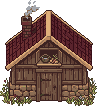
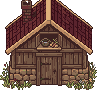
deploy dom 09/08/2026 17:00:11,98

diff --git a/public/game/farm.js b/public/game/farm.js
@@ -20,7 +20,7 @@ class FarmScene extends Phaser.Scene {
     this.pathStuck = 0; this.lastDD = null; this.noProg = 0;
     this.unlockPend = null; this.leaving = false;
     this.dragObj = null; this.dragPlot = null; this.dragPond = false;
-    this.hornoSmokeEv = null; this.dummyBroken = false;   // si no se limpian, el humo del horno no vuelve al regresar del Bosque
+    this.dummyBroken = false;
     this.auraFx = null; this.auraTw = null;
     this.clickHit = null; this.clickPond = false; this.buffer = null;
     this.corral = null; this.animales = null; this.corralCerca = null;
@@ -495,23 +495,30 @@ class FarmScene extends Phaser.Scene {
       }
     }
     // el humo nace un poco POR ENCIMA de la boca de la chimenea, no encima del ladrillo
-    const smokeFrom = (obj, dx, tint, cond) => {
-      this.time.addEvent({ delay: 850, loop: true, callback: () => {
+    // HUMO DE LAS CHIMENEAS (9/8, reescrito). Antes cada edificio tenía su corrimiento a ojo
+    // y el arte nuevo movió las chimeneas de lugar: el humo salía del techo o del aire. Ahora
+    // sale de GF.CHIMENEA, que está medido sobre el PNG, y se inclina con el viento como los árboles.
+    const smokeFrom = (obj, tint, cond, cada) => {
+      const ch = (GF.CHIMENEA && GF.CHIMENEA[obj.type]) || { dx: 0, dy: 0.01 };
+      this.time.addEvent({ delay: cada || 850, loop: true, callback: () => {
         if (!cond()) return;
         const sp = obj.sprite; if (!sp || !sp.visible) return;
-        const px = obj.cx + obj.rw * dx + (Math.random() * 6 - 3);
-        const py = obj.by - sp.displayHeight - 4;
+        const alto = sp.displayHeight || (obj.rw || obj.w);
+        const px = obj.cx + (obj.rw || obj.w) * ch.dx + (Math.random() * 5 - 2.5);
+        const py = obj.by - alto + alto * ch.dy - 2;
         const s = this.add.image(px, py, "puff" + ((Math.random() * 3) | 0))
           .setTint(tint).setAlpha(0.55)
           .setScale(0.6 + Math.random() * 0.5).setAngle(Math.random() * 360)
           .setDepth(obj.by + 1);
-        this.tweens.add({ targets: s, y: py - 26 - Math.random() * 14, x: px + (Math.random() * 16 - 7),
+        // la misma onda que mece los árboles empuja la bocanada: el humo no sube recto
+        const viento = VIENTO_ON ? Math.sin(this.time.now / 1000 * Math.PI * 2 / Math.max(0.2, VIENTO_SEG)) * 16 : 0;
+        this.tweens.add({ targets: s, y: py - 26 - Math.random() * 14, x: px + (Math.random() * 12 - 6) + viento,
           scale: s.scale * 2.2, angle: s.angle + (Math.random() * 70 - 35), alpha: 0,
           duration: 2300 + Math.random() * 700, onComplete: () => s.destroy() });
       }});
     };
     const storeObj = this.objs.find(o => o.type === "store");
-    if (storeObj) smokeFrom(storeObj, 0.26, 0xd8d2c4, () => true);                       // herrería: siempre
+    if (storeObj) smokeFrom(storeObj, 0xd8d2c4, () => true);                             // herrería: siempre
     // fragua: media por defecto, encendida mientras se trabaja en la Herrería (detalles jueves)
     this.storeObj = storeObj;
     this.updateForge();
@@ -520,10 +527,13 @@ class FarmScene extends Phaser.Scene {
     this.crearNubes();        // nubes que cruzan y proyectan sombra
     this.crearMariposas();    // mariposas que se posan sobre los cultivos listos
     this.arrancarBrilloVetas();   // chispitas sobre las vetas caras que están listas (9/8)
-    this.startHornoSmoke();   // humo del Horno de Piedra si ya está construido (viernes 2)
     const cocinaObj = this.objs.find(o => o.type === "cocina");
-    if (cocinaObj) smokeFrom(cocinaObj, 0.20, 0xefe9db, () => true);                     // cocina: humo SIEMPRE (detalles jueves)
-    if (cocinaObj) smokeFrom(cocinaObj, 0.20, 0xffffff, () => (typeof cookList === "function" ? cookList().length > 0 : !!G.cooking));   // …y el doble de bocanadas mientras se cocina
+    if (cocinaObj) smokeFrom(cocinaObj, 0xefe9db, () => true);                           // cocina: humo SIEMPRE (detalles jueves)
+    if (cocinaObj) smokeFrom(cocinaObj, 0xffffff, () => (typeof cookList === "function" ? cookList().length > 0 : !!G.cooking));   // …y el doble de bocanadas mientras se cocina
+    // HORNO DE PIEDRA: mismo humo que los demás (antes tenía el suyo propio, hecho con
+    // elipses dibujadas, mucho más flojo y difícil de ver). Solo humea si está construido.
+    const hornoObj = this.objs.find(o => o.type === "horno");
+    if (hornoObj) smokeFrom(hornoObj, 0xcfcabb, () => !!(G.built && G.built.horno), 900);
 
     // cofres depósito colocados por el jugador (los que están en la bolsa NO se colocan solos)
     (G.chests = G.chests || []).forEach((c, idx) => { if (c.col != null) this.spawnChest(idx); });
@@ -708,7 +718,6 @@ class FarmScene extends Phaser.Scene {
         payCost(b.cost); if (b.golden) G.golden -= b.golden; G.built[o.type] = true;
         if (o.sprite) { o.sprite.setAlpha(1); o.sprite.clearTint(); }
         this.tintarNodo(o);
-        if (o.type === "horno") this.startHornoSmoke();   // arranca el humo (viernes 2)
         if (typeof tutoEvent === "function") tutoEvent("build_" + o.type);
         addXp("crafting", 20); log("¡Construiste " + b.label + "!", "gold"); toast("¡" + b.label + " construida!");
         refreshHud(); if (typeof saveFarm === "function") saveFarm(true);
@@ -1726,9 +1735,9 @@ class FarmScene extends Phaser.Scene {
     // La posición se saca del alto REAL del sprite, no de un número fijo: así el arte se puede
     // cambiar (herrería nueva del 9/8) sin que el resplandor quede flotando en cualquier lado.
     const alto = o.sprite.displayHeight || (o.rw || o.w);
-    const k = alto / 111;                                 // escala respecto de la textura actual
+    const k = alto / 99;                                  // escala respecto de la textura actual
     const fx = o.cx - 0.027 * (o.rw || o.w);              // la fragua está apenas a la izquierda del centro
-    const fy = o.by - 0.267 * alto;                       // boca del horno, medida sobre el sprite
+    const fy = o.by - 0.299 * alto;                       // boca de la fragua, medida sobre el sprite
     if (lit && !this.forgeGlow) {
       // núcleo intenso en el horno + halo suave que baña el frente del edificio (blend aditivo)
       const core = this.add.ellipse(fx, fy, 14 * k, 12 * k, 0xff7a2a, 0.5).setDepth(o.by + 1).setBlendMode(Phaser.BlendModes.ADD).setAlpha(0);
@@ -1743,28 +1752,6 @@ class FarmScene extends Phaser.Scene {
       this.forgeGlow.forEach(g => { this.tweens.killTweensOf(g); g.destroy(); });
       this.forgeGlow = null;
     }
-  }
-
-  // viernes (2): humo del Horno de Piedra por código (el sprite se dejó limpio a propósito)
-  startHornoSmoke() {
-    if (this.hornoSmokeEv) return;
-    const o = this.objs && this.objs.find(x => x.type === "horno");
-    if (!o || !o.sprite || !(G.built && G.built.horno)) return;
-    // la chimenea se ubica en proporción al sprite (arte nuevo del 9/8: chimenea centrada arriba)
-    const alto = () => o.sprite.displayHeight || 60;
-    const k = (o.rw || o.w) / 98;
-    const sx = () => o.cx + 0.004 * (o.rw || o.w) + (Math.random() - 0.5) * 4;   // boca de la chimenea, casi al centro
-    const sy = () => o.by - alto() + 0.02 * alto();
-    this.hornoSmokeEv = this.time.addEvent({ delay: 750, loop: true, callback: () => {
-      if (!(G.built && G.built.horno)) return;
-      const g = 150 + Math.floor(Math.random() * 40);
-      const puff = this.add.ellipse(sx(), sy(), 5 + Math.random() * 3, 4 + Math.random() * 2, (g << 16) | (g << 8) | g, 0.5)
-        .setDepth(o.by + 2).setAlpha(0);
-      // el humo se INCLINA con el viento: la misma onda que mece los árboles empuja la bocanada
-      const desvio = 6 + Math.random() * 8 + (VIENTO_ON ? Math.sin(this.time.now / 1000 * Math.PI * 2 / Math.max(0.2, VIENTO_SEG)) * 14 : 0);
-      this.tweens.add({ targets: puff, alpha: { from: 0.45, to: 0 }, y: puff.y - 26 - Math.random() * 10, x: puff.x + desvio,
-        scaleX: 2.2, scaleY: 2.2, duration: 2400 + Math.random() * 600, ease: "Sine.easeOut", onComplete: () => puff.destroy() });
-    } });
   }
 
   // crea (o ubica por primera vez) un cofre depósito en la granja

diff --git a/public/game/boot.js b/public/game/boot.js
@@ -52,8 +52,8 @@ class BootScene extends Phaser.Scene {
     L.push(["pick_iron", P + "pick_iron.png"]);     // viernes (2): pico de hierro (derivado del de piedra)
     ["grass_a","grass_b","grass_c"].forEach(k => L.push([k, P + k + ".png?v=4"]));   // suelo nuevo sin damero · v2: tiles de 42px (la celda real)
     ["deco_flor_blanca","deco_flor_amarilla","deco_pasto","deco_piedras"].forEach(k => L.push([k, P + k + ".png?v=3"]));   // decoración del pasto (PixelLab)
-    L.push(["cocina", P + "cocina.png?v=2"]);   // edificio de Cocina (detalles 29/7)
-    L.push(["horno", P + "horno.png?v=3"]);     // Horno de Piedra (detalles viernes 1): fundición de barras
+    L.push(["cocina", P + "cocina.png?v=3"]);   // edificio de Cocina (detalles 29/7)
+    L.push(["horno", P + "horno.png?v=4"]);     // Horno de Piedra (detalles viernes 1): fundición de barras
     // arte cozy nuevo (v2 rompe el caché del arte viejo)
     L.push(["tree_stump", P + "tree_stump.png?v=3"]);
     L.push(["sprout", P + "sprout.png?v=5"]);
@@ -85,8 +85,8 @@ class BootScene extends Phaser.Scene {
     L.push(["plot_blocked", P + "plot_blocked.png?v=3"]);   // sin trabajar: ramas, piedras y yuyos
     L.push(["barn", P + "barn.png?v=4"]);
     L.push(["market", P + "market.png?v=4"]);
-    L.push(["store", P + "store.png?v=5"]);          // v4: fragua a medio fuego (estado por defecto)
-    L.push(["store_lit", P + "store_lit.png?v=2"]);      // fragua encendida (mientras crafteás/reparás)
+    L.push(["store", P + "store.png?v=6"]);          // v4: fragua a medio fuego (estado por defecto)
+    L.push(["store_lit", P + "store_lit.png?v=3"]);      // fragua encendida (mientras crafteás/reparás)
     ["fence_top","fence_bottom","fence_left","fence_right"].forEach(k => L.push([k, P + k + ".png?v=2"]));
     L.push(["fishing_rod", P + "fishing_rod.png?v=2"]);   // caña cozy nueva
     L.push(["fence_corner", P + "fence_corner.png?v=3"]);
@@ -114,8 +114,8 @@ class BootScene extends Phaser.Scene {
   preload() {
     // ATLAS: todos los sprites del mundo en 2 archivos (mucho más liviano para el server free).
     // Si el atlas no llega, ensureAll() baja los archivos sueltos como respaldo.
-    this.load.image("__atlas", "assets/atlas.png?v=24");
-    this.load.json("__atlasmap", "assets/atlas.json?v=24");
+    this.load.image("__atlas", "assets/atlas.png?v=25");
+    this.load.json("__atlasmap", "assets/atlas.json?v=25");
 
     // No hay barra propia: la pantalla de carga es UNA sola, la del HTML, y le pasamos el avance.
     // (Antes había dos barras seguidas y el juego "aparecía" antes de estar listo.)

diff --git a/public/game/config.js b/public/game/config.js
@@ -162,6 +162,16 @@ GF.WORLD_OBJECTS.push(snap("establo", {type:"establo"}, 189, 378, T*3));      //
 GF.WORLD_OBJECTS.push(snap("curtiduria", {type:"curtiduria"}, 315, 378, T*2));   // al lado del Establo, como pide el doc
 GF.WORLD_OBJECTS.push(snap("ofrendas", {type:"ofrendas"}, 861, 168, T*2));      // Altar de Ofrendas, en el claro del noreste
 
+// CHIMENEAS (9/8). Dónde sale el humo en cada edificio, medido sobre el arte nuevo y no
+// a ojo: dx es el corrimiento respecto del CENTRO del sprite (en anchos de sprite) y dy es
+// la altura de la boca contada desde el techo (en altos de sprite). Si el arte cambia, se
+// vuelven a medir estos dos números y el humo sigue saliendo del caño.
+GF.CHIMENEA = {
+  cocina: { dx: -0.232, dy: 0.01 },   // caño de ladrillo, a la izquierda del techo
+  store:  { dx:  0.299, dy: 0.01 },   // herrería: caño de piedra, a la derecha
+  horno:  { dx:  0.005, dy: 0.01 },   // horno de piedra: caño centrado arriba de la cúpula
+};
+
 // ANIMALES SUELTOS (9/8): andan por toda la granja, no encerrados en un patio.
 // Esquivan edificios, vetas, la laguna y las parcelas (no pisan los cultivos), y eligen
 // su próximo destino cerca de donde están, así deambulan en vez de cruzar el mapa entero.

diff --git a/CHANGELOG.md b/CHANGELOG.md
@@ -1169,7 +1169,7 @@ vistas isométricas) y sin las columnas de runas que se colaban del Altar.
   del arte nuevo, con los tonos de fuego levantados.
 - `tools/build-atlas.py` aprendió a incorporar claves nuevas: Establo, Curtiduría y Ofrendas
   nunca habían entrado al atlas porque no existía su PNG.
-- Atlas rearmado (365 sprites) y versiones subidas: atlas `?v=24` y cada edificio con su `?v`
+- Atlas rearmado (365 sprites) y versiones subidas: atlas `?v=25` y cada edificio con su `?v`
   nuevo, para que nadie se coma el arte viejo del caché.
 
 ### Verde de la granja, menos fosforescente
@@ -1229,6 +1229,23 @@ como los del Establo de cualquier juego cozy.
 - El clic sobre un animal se sigue evaluando último, después de vetas y parcelas: un animal
   parado delante de una veta no te roba el clic.
 - El corral de antes queda a un interruptor de distancia: `GF.CORRAL_ON = 1` en config.js.
+
+### Las chimeneas, en su lugar (9/8)
+El arte nuevo movió las chimeneas y el humo se quedó donde estaba: en la Cocina salía del
+techo, en la Herrería del aire al costado, y el Horno directamente no humeaba.
+
+- **Una sola función de humo** para los tres edificios. Antes la Cocina y la Herrería usaban
+  una, y el Horno tenía la suya propia hecha con elipses dibujadas, mucho más floja y difícil
+  de ver. Ahora los tres humean igual.
+- La posición sale de **`GF.CHIMENEA`**, medida sobre el PNG y no a ojo: `dx` es el corrimiento
+  respecto del centro del sprite y `dy` la altura de la boca desde el techo. Si mañana cambia
+  el arte, se vuelven a medir esos dos números y listo.
+- El humo ahora **se inclina con el viento**, igual que las copas de los árboles. Esa parte solo
+  la tenía el Horno; ahora es de los tres.
+- Se borró el humito **dibujado** de la Cocina y de la Herrería (ya se le había sacado al Horno):
+  con el humo del juego encima se veía doble. De paso los sprites quedaron más cortos.
+- La `store_lit` (fragua encendida) se rehizo desde el arte sin humo, y el resplandor de la
+  fragua se remidió sobre el sprite nuevo.
 
 ### Verificación
 - `node --check` en los 13 JS, `tools/check-ui.js` (20 ventanas OK) y `build-atlas.py --check` sin faltantes.
